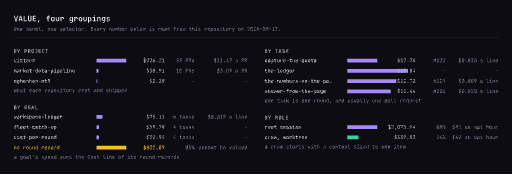
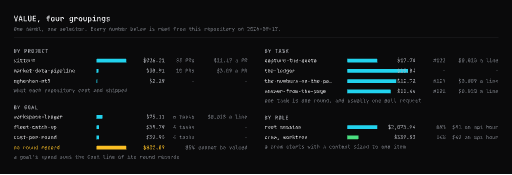
Re-tint in Carbon, and cut the measure panels to one line each
The human ruled out violet, so Flux is not taken despite the best
numbers. Excluding violet the accent had to be cyan or blue, because it
has to stay clear of green, amber and red. Four candidates were measured
inside that band.

Dune is rejected on a number: its warning orange sits 27 degrees from
its danger red, and two marks a reader cannot tell apart is a worse
failure than any ratio. Ink has the better separation and is not taken
either: its azure is one degree from the blue the page already had, so
it would read as the same palette on a different ground.

Carbon is the pick. Cyan on a true-black ground, 46 degrees from its
nearest state, and nothing else on the page is cyan. Fourteen pairs
measured in each theme, on the ground and on the surface, with zero
failures.

Every panel note is now one line that names a fact. The reasoning lives
in `corpus/valuemaxxing.md` and in the round records; the page carries
the number.

Claude-Session: https://claude.ai/code/session_012ztzwyRLLwgnU2inMa4JWu

diff --git a/docs/goals/agent-dashboard/corpus/palette.md b/docs/goals/agent-dashboard/corpus/palette.md
@@ -70,10 +70,33 @@ mapping every reader already knows.
 
 ## The decision
 
-**Flux, under rule C.** The human picked it on 2026-09-17, and every
-frame in `dashboard.pen` is re-tinted: the document variables now hold
-Flux, and each frame draws from them, so the re-tint was one edit rather
-than six.
+**Carbon, under rule C.** The human ruled out violet on 2026-09-17, so
+Flux is not taken despite the best numbers, and Carbon is the pick.
+
+**Excluding violet, the accent had to be cyan or blue.** It has to stay
+clear of green, amber and red, which leaves one band of the wheel. Four
+candidates were measured inside it:
+
+| | Accent | Ground | Closest hue pair | Accent to nearest state | Lowest contrast |
+|---|---|---|---|---|---|
+| **Carbon** | `#22d3ee` cyan | `#0a0a0b` true black | 46° | 46° | **5.20** |
+| Ink | `#60a5fa` azure | `#0a1020` navy | 52° | 55° | 5.20 |
+| Dune | `#2dd4bf` teal | `#12100e` warm black | **27°** | 89° | 5.06 |
+| Phosphor | `#7bff9e` green | `#080a09` | 39° | 52° | 5.04 |
+
+**Dune is rejected on a number**: its warning orange sits 27° from its
+danger red, and two marks a reader cannot tell apart is a worse failure
+than any ratio.
+
+**Ink has the better separation and Carbon is taken anyway.** Ink's
+azure is 213°, one degree from the blue the page already had, so it
+would read as the same palette on a slightly different ground. Carbon's
+cyan on a true-black ground is the visible change the human asked for,
+and 46° is the same separation Signal would have given.
+
+Every frame in `dashboard.pen` is re-tinted: the document variables hold
+Carbon and each frame draws from them, so the re-tint was one edit
+rather than six.
 
 - Violet is the widest hue any accent can take from green, amber and
   red at once, so it never competes with a state.
@@ -85,27 +108,27 @@ than six.
 **Phosphor** was the boldest and is not taken. Its cost was real:
 success stops being green.
 
-## Flux, as shipped
+## Carbon, as shipped
 
 Two themes, both measured. Every text pair clears 4.5 and every state
 pair clears 3.0, on the ground and on the surface.
 
 | Token | Dark | Light |
 |---|---|---|
-| `bg` | `#0c0c12` | `#fbfbfe` |
-| `surface` | `#14141d` | `#f2f2f8` |
-| `border` | `#23232f` | `#dcdce8` |
-| `text` | `#eaeaf2` | `#17171f` |
-| `muted` | `#b0b0c0` | `#4d4d61` |
-| `faint` | `#81819a` | `#68687f` |
-| `accent` | `#a78bfa` | `#6d3ee8` |
-| `success` | `#34d399` | `#047857` |
-| `warning` | `#fbbf24` | `#a35a00` |
-| `danger` | `#f87171` | `#c81e34` |
+| `bg` | `#0a0a0b` | `#fcfcfd` |
+| `surface` | `#111113` | `#f4f4f6` |
+| `border` | `#1f1f23` | `#e0e1e4` |
+| `text` | `#e9eaec` | `#16171a` |
+| `muted` | `#aeb0b6` | `#4b4d55` |
+| `faint` | `#7e8189` | `#63666e` |
+| `accent` | `#22d3ee` | `#0e7490` |
+| `success` | `#4ade80` | `#15803d` |
+| `warning` | `#fbbf24` | `#9a6400` |
+| `danger` | `#fb7185` | `#be123c` |
 
-One value moved after the first measurement: `faint` on `surface` in
-light read 4.37, under the 4.5 a text pair needs, so it darkened from
-`#6f6f88` to `#68687f` and reads 4.86.
+Fourteen pairs measured in each theme, on the ground and on the surface.
+Zero failures: every text pair clears 4.5 and every state pair clears
+3.0.
 
 Under rule C the product keeps deriving `bg`, `surface`, `border` and
 the three greys from the terminal's theme. The table's ground values are

diff --git a/docs/goals/agent-dashboard/corpus/design-foundation.md b/docs/goals/agent-dashboard/corpus/design-foundation.md
@@ -225,8 +225,8 @@ recommendation is **Flux**, pending the human's pick:
 | `--ui-danger` failed | `#f87171` | |
 
 They paint the mark glyph. They never paint text, a background, or a
-border. The lowest ratio any pair reaches on any bundled theme is 5.06,
-against 4.18 for the palette the page has today, so the ratchet gains no
+border. The lowest ratio any pair reaches on any bundled theme is 5.20,
+against 4.18 for the palette the page had, so the ratchet gains no
 `KNOWN_BELOW` entry.
 
 ## The frame
@@ -266,6 +266,12 @@ as a dashboard rather than as five lists.
 | `VALUE` | a grouping selector, then one row per group: name, bar, spend, unit count, unit cost |
 | `MODELS` | one bar per model, scaled to spend, with the spend and the session count |
 | `LEAKS` | one line per leak, marked |
+
+**A panel's note is one line, and it names a fact.** Not a paragraph,
+not a caveat with a reason attached. `$1,446.00 apportioned across
+midnight`, `85% names no round, so it cannot be valued`, `a crew is 31%
+cheaper an API hour`. The reasoning lives in `corpus/valuemaxxing.md`
+and in the round records; the page carries the number.
 
 ### The VALUE panel groups by the same levels as the tree
 
